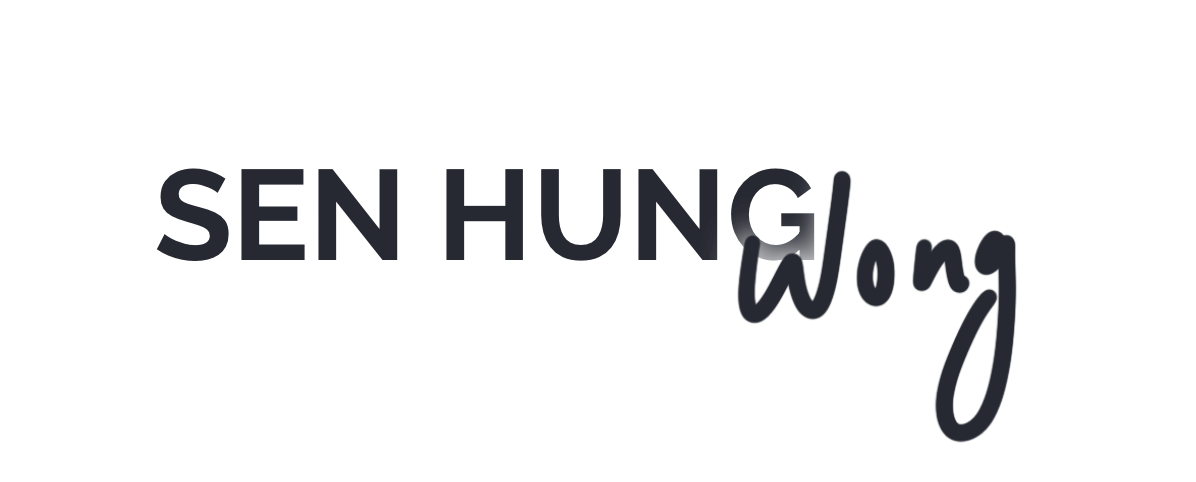
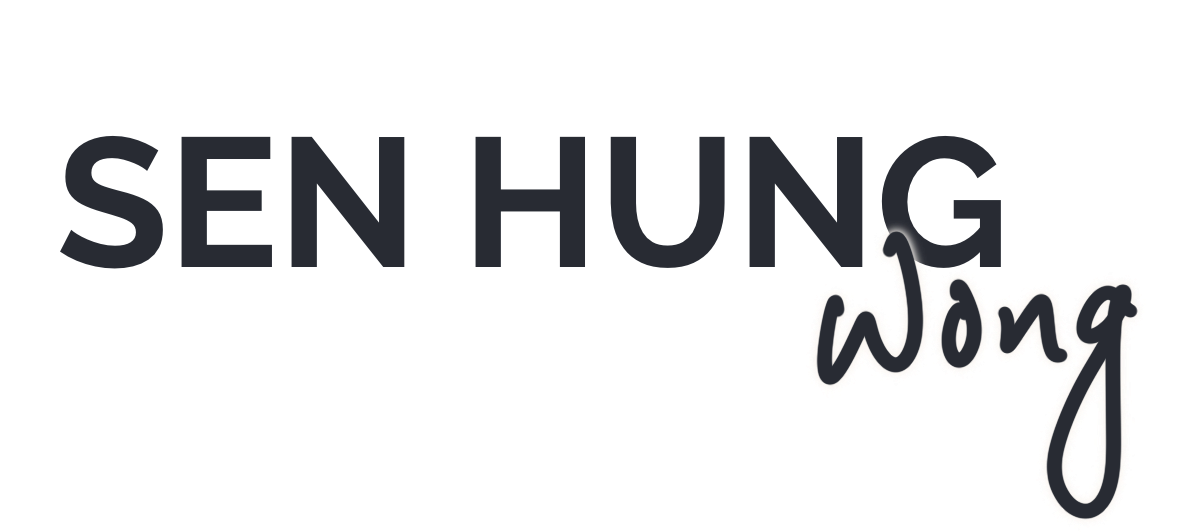
Add dark mode

Changed region(s): [[0.0305, 0.249, 0.9771, 0.9959]]

diff --git a/components/Navbar.tsx b/components/Navbar.tsx
@@ -22,7 +22,7 @@ export const Navbar: React.FC = () => {
         className={`${
           isover
             ? "text-gray-300 hover:text-white"
-            : "text-gray-400 hover:text-gray-700"
+            : "text-gray-400 hover:text-gray-700 dark:text-gray-300 dark:hover:text-white"
         } px-3 py-2 rounded-md text-base font-medium transition`}
       >
         {text}
@@ -36,7 +36,7 @@ export const Navbar: React.FC = () => {
         className={`${
           isover
             ? "text-gray-300 hover:text-white"
-            : "text-gray-400 hover:text-gray-700"
+            : "text-gray-400 hover:text-gray-700 dark:text-gray-300 dark:hover:text-white"
         } px-3 py-2 rounded-md text-base font-medium transition block`}
       >
         {text}
@@ -62,7 +62,7 @@ export const Navbar: React.FC = () => {
       <div className="max-w-7xl mx-auto px-8">
         <div
           className={`flex items-center justify-between h-16 transition duration-500 ${
-            isOverThreshold ? "" : "transhtmlForm translate-y-2"
+            isOverThreshold ? "" : "transform translate-y-4"
           }`}
         >
           <div className="flex w-full items-center">

diff --git a/components/About.tsx b/components/About.tsx
@@ -3,13 +3,13 @@ import React from "react";
 
 export const About: React.FC = () => {
   return (
-    <div className="bg-white dark:bg-gray-800 overflow-hidden relative">
+    <div className="bg-white dark:bg-gray-700 overflow-hidden relative">
       <div className="max-w-7xl mx-auto justify-around lg:flex lg:items-center">
         <div className="py-12 px-4 sm:px-6 lg:py-16 lg:px-8 z-20">
-          <h2 className="text-3xl font-extrabold text-black dark:text-white sm:text-4xl">
+          <h2 className="text-3xl font-extrabold text-black dark:text-gray-100 sm:text-4xl">
             <span className="block">About Me</span>
           </h2>
-          <p className="text-md mt-4 text-gray-400">
+          <p className="text-md mt-4 text-gray-400 dark:text-gray-300">
             Hi, I am Sen Hung Wong.
             <br />I am passionate about software design and game development.
             <br />- Graduated at Simon Fraser University on December 2020.

diff --git a/components/Project.tsx b/components/Project.tsx
@@ -11,7 +11,7 @@ export const Project: React.FC<Props> = ({ href, src }) => {
   return (
     <Link href={href}>
       <a
-        className="relative shadow-md hover:shadow-xl rounded-2xl bg-white m-auto pt-2 px-2 pb-1 transition duration-500 transform hover:-translate-y-1 select-none cursor-pointer"
+        className="relative shadow-md hover:shadow-xl rounded-2xl bg-white dark:bg-gray-300 m-auto pt-2 px-2 pb-1 transition duration-500 transform hover:-translate-y-1 select-none cursor-pointer"
         target="_blank"
       >
         <Image

diff --git a/components/Title.tsx b/components/Title.tsx
@@ -1,14 +1,16 @@
+import { useTheme } from "next-themes";
 import Image from "next/image";
 import React from "react";
 
 export const Title: React.FC = () => {
+  const { theme } = useTheme();
   return (
     <div className="flex flex-col select-none mx-8 mb-8">
       <Image
-        src="/SenHungWong.png"
+        src={theme === "dark" ? "/SenHungWongDark.png" : "/SenHungWong.png"}
         alt="Sen Hung Wong"
         width={598}
-        height={241}
+        height={270}
         draggable={false}
       />
     </div>

diff --git a/components/Projects.tsx b/components/Projects.tsx
@@ -11,7 +11,7 @@ const PROJECTS: { href: string; src: string }[] = [
 
 export const Projects: React.FC = () => {
   return (
-    <div className="bg-gray-100">
+    <div className="bg-gray-100 dark:bg-gray-800">
       <div className="max-w-7xl mx-auto">
         <div className="py-12 px-4 sm:px-6 lg:py-16 lg:px-8 z-20">
           <h2 className="text-3xl font-extrabold text-black dark:text-white sm:text-4xl">
